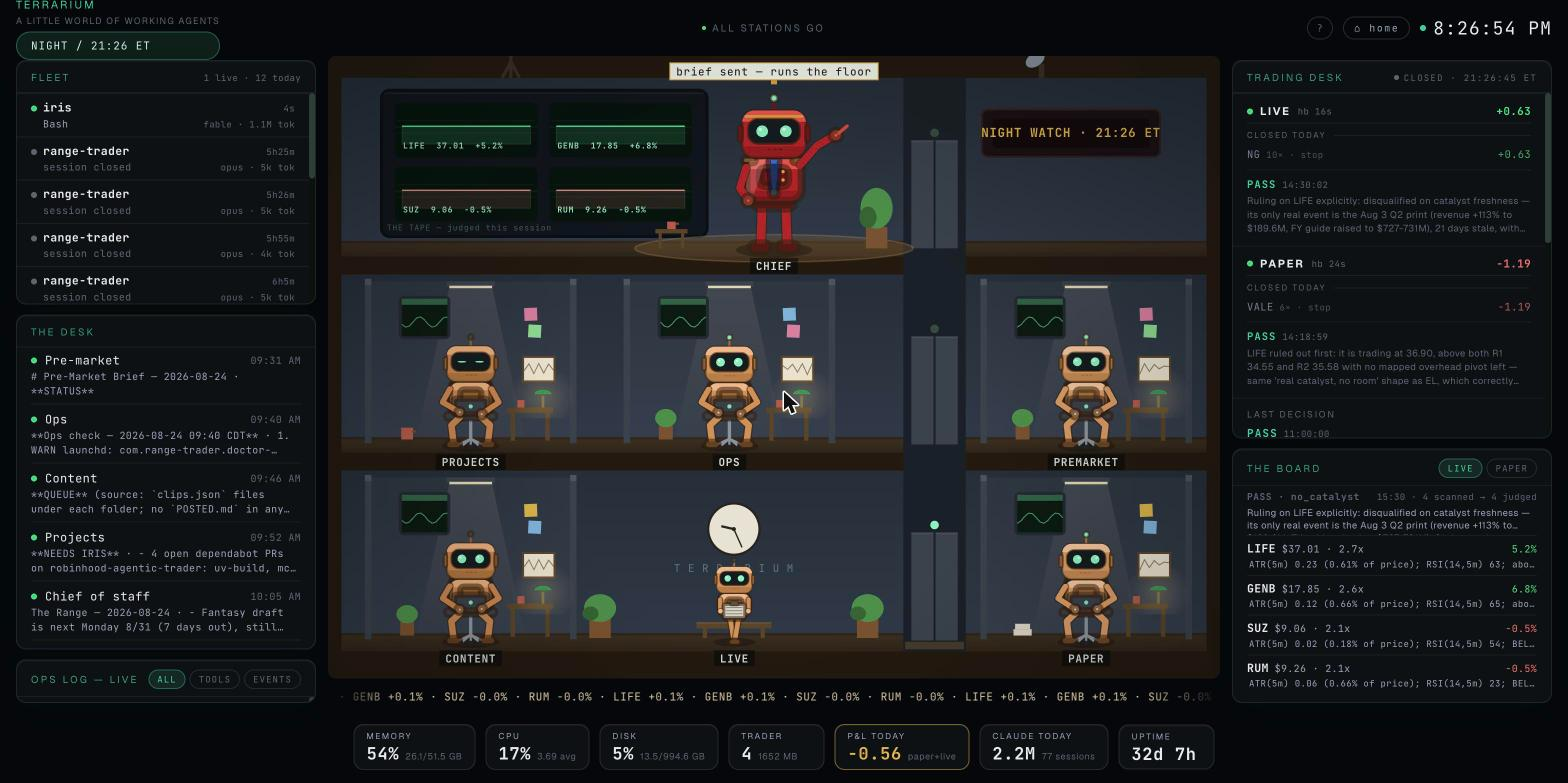
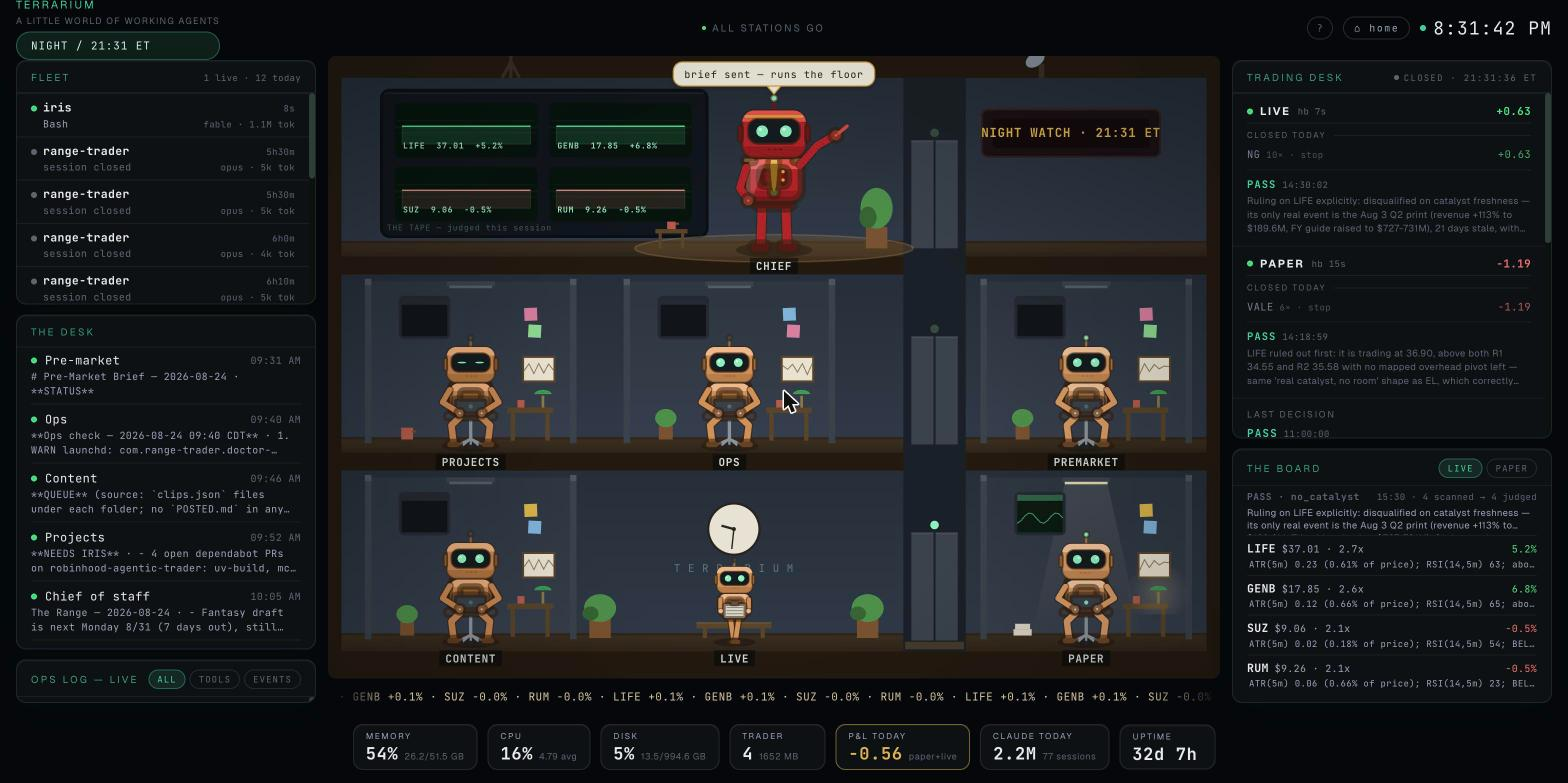
Lights follow real work, not attendance
- A seat is 'active' only if its run finished within the last 20 minutes
  (trading bots: heartbeat actually alive). Active drives everything at
  once: ceiling cone, desk lamp, bay monitor, typing motion, chest LED.
- Idle bots stay in their offices with the lights off and hands still;
  the building's lit windows now read as a truthful activity map. The
  fleet-busy shortcut no longer lights every office.

diff --git a/frontend/src/components/RangeFloor.tsx b/frontend/src/components/RangeFloor.tsx
@@ -17,7 +17,7 @@ const P = {
 }
 
 type SeatStatus = 'ok' | 'failed' | 'pending'
-interface DeskSeat { name: string; status: SeatStatus; brief?: string | null }
+interface DeskSeat { name: string; status: SeatStatus; brief?: string | null; ran_at?: string | null }
 type Action = 'sit' | 'work' | 'walk' | 'point'
 interface Station {
   key: string
@@ -27,6 +27,7 @@ interface Station {
   action: Action
   flip: boolean
   present: boolean
+  active: boolean       // doing something RIGHT NOW — drives lights + motion
   down: boolean
   pending: boolean
   bubble: string | null
@@ -99,16 +100,21 @@ function stationsFrom(
 ): Station[] {
   const liveHb = trading?.modes?.live?.status === 'alive'
   const busy = fleetBusy(fleet) || liveHb
+  const ACTIVE_WINDOW = 20 * 60_000
+  const ranRecently = (seat?: DeskSeat) =>
+    !!seat?.ran_at && Date.now() - new Date(seat.ran_at).getTime() < ACTIVE_WINDOW
   const names = ['projects', 'premarket', 'ops', 'content'] as const
   const out: Station[] = names.map((name) => {
     const seat = seats.find(s => s.name === name)
     const st: SeatStatus = seat?.status ?? 'pending'
     const p = SPOTS[name]
-    const present = st === 'ok' || (busy && st !== 'failed')
+    const present = st === 'ok'
     return {
       key: name, label: name.toUpperCase(), x: p.x, y: p.y,
       action: p.action, flip: !!p.flip,
-      present, down: st === 'failed', pending: !present && st !== 'failed',
+      present,
+      active: present && ranRecently(seat),
+      down: st === 'failed', pending: !present && st !== 'failed',
       bubble: st === 'failed' ? 'SEAT DOWN' : null,
     }
   })
@@ -118,7 +124,8 @@ function stationsFrom(
   out.push({
     key: 'paper', label: 'PAPER', x: pp.x, y: pp.y,
     action: 'sit', flip: true,
-    present: paperOn, down: paper?.status === 'stale',
+    present: paperOn, active: paperOn,
+    down: paper?.status === 'stale',
     pending: !paperOn && paper?.status !== 'stale',
     bubble: null,
   })
@@ -128,18 +135,21 @@ function stationsFrom(
   out.push({
     key: 'chief', label: 'CHIEF', x: cp.x, y: cp.y,
     action: 'point', flip: false,
-    present: chiefOk || busy, down: chiefSeat?.status === 'failed',
+    present: chiefOk || busy,
+    active: (chiefOk && ranRecently(chiefSeat)) || busy,
+    down: chiefSeat?.status === 'failed',
     pending: !(chiefOk || busy) && chiefSeat?.status !== 'failed',
     bubble: chiefOk ? 'brief sent — runs the floor' : null,
   })
   const live = trading?.modes?.live
   const last = trading?.last_decision
   const p = SPOTS.live
-  const liveWalk = live?.status === 'alive' || busy
+  const liveWalk = live?.status === 'alive'
   out.push({
     key: 'live', label: 'LIVE', x: p.x, y: p.y,
     action: 'walk', flip: false,
-    present: liveWalk, down: live?.status === 'stale',
+    present: liveWalk, active: liveWalk,
+    down: live?.status === 'stale',
     pending: !liveWalk && live?.status !== 'stale',
     bubble: last?.action
       ? `${last.action.toUpperCase()}${last.symbol ? ' ' + last.symbol : ''}` : null,
@@ -775,7 +785,7 @@ export default function RangeFloor() {
       // office cosmetics — light strips, wall art, side desks
       for (const bay of BAYS) {
         const st = stations.find(s => s.key === bay.key)
-        const occupied = !!st && st.present && !st.down
+        const occupied = !!st && st.active && !st.down
         // ceiling light strip + soft cone when someone's in
         const lx = X(bay.x)
         ctx.fillStyle = '#39424c'
@@ -940,8 +950,8 @@ export default function RangeFloor() {
         const mx = X(bay.x) - bay.half * dw * 0.45 - mw / 2, my = Y(bay.top + 0.040)
         ctx.fillStyle = '#232a30'
         ctx.beginPath(); ctx.roundRect(mx - 3, my - 3, mw + 6, mh + 6, 5); ctx.fill()
-        const on = st.present && !st.down
-        const glow = st.down ? 'rgba(240,113,106,0.5)' : st.pending ? 'rgba(224,179,77,0.28)' : 'rgba(125,232,168,0.35)'
+        const on = st.active && !st.down
+        const glow = st.down ? 'rgba(240,113,106,0.5)' : on ? 'rgba(125,232,168,0.35)' : 'rgba(120,130,140,0.20)'
         ctx.fillStyle = on ? '#0b1a12' : '#10151a'
         ctx.fillRect(mx, my, mw, mh)
         ctx.fillStyle = glow
@@ -972,7 +982,7 @@ export default function RangeFloor() {
           flip = wpos.flip
         }
         const H = S * POSE_H[s.action]
-        const st = { working: s.present && !s.down, pending: s.pending, down: s.down }
+        const st = { working: s.active && !s.down, pending: s.pending, down: s.down }
         shadow(ctx, x, y, H * 0.55)
         drawBot(ctx, x, y, H, s.action, now, i, st, flip)
         ctx.font = `bold 11px ${MONO}`
